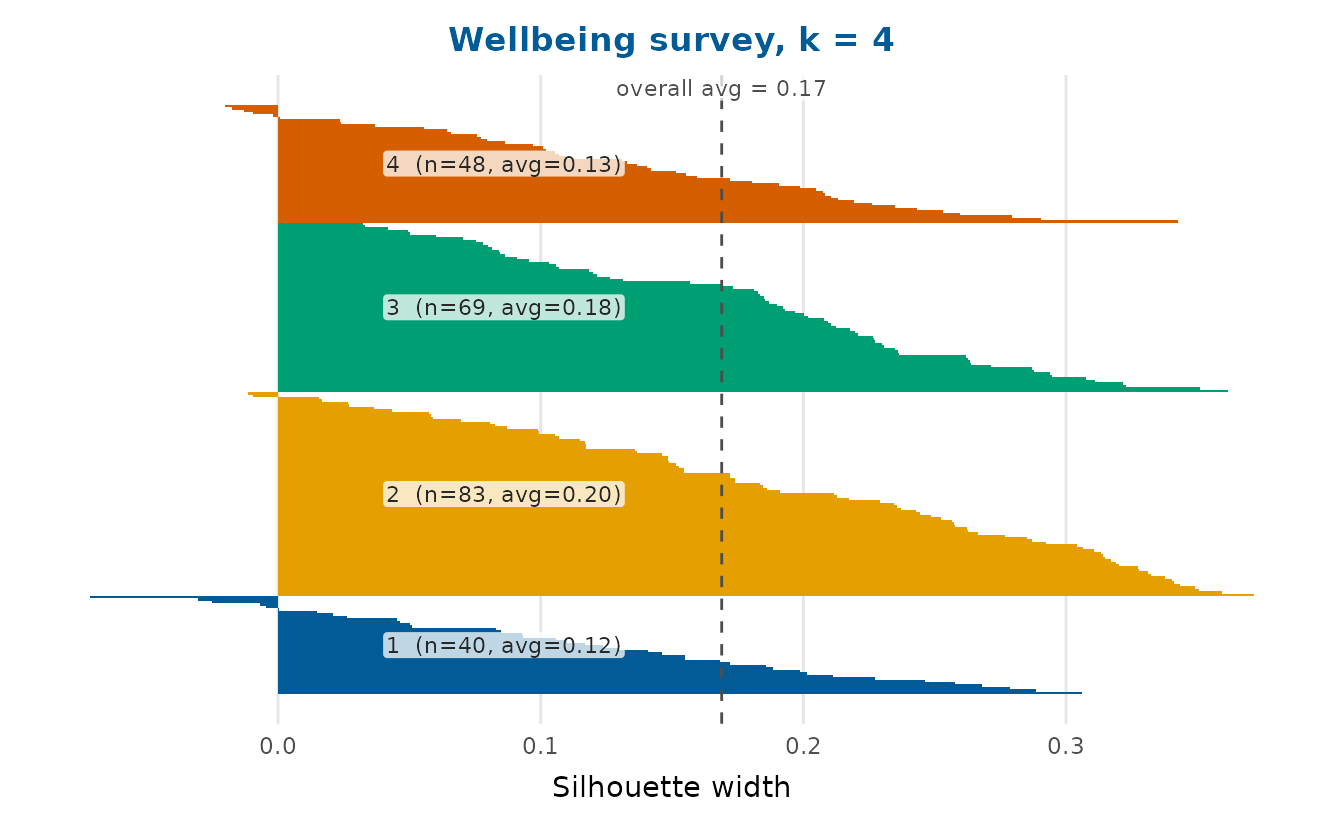
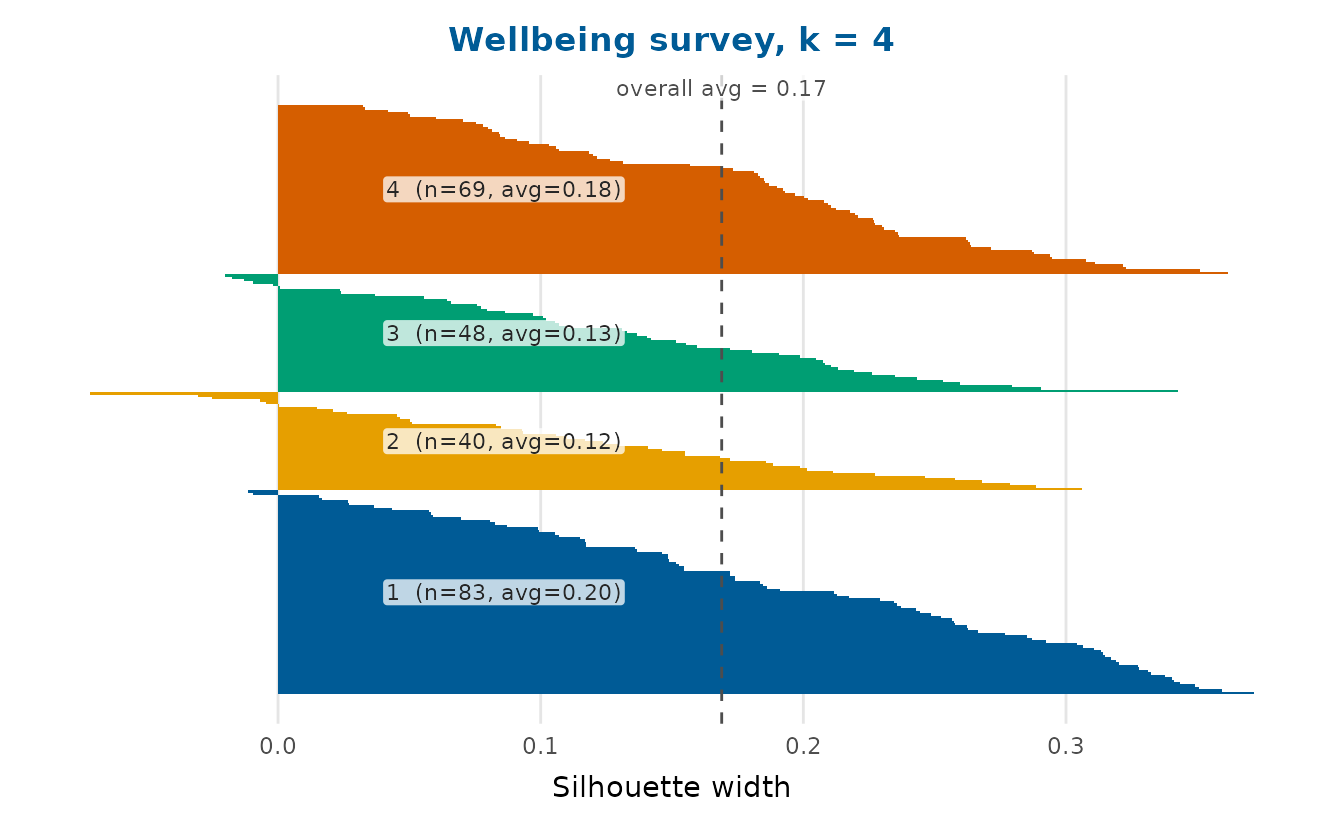
Deploying to gh-pages from @ pablobernabeu/depictr@6c7d5bfcca1dce3d7c01c3fd6941ca9bd43c88b3 🚀

Changed region(s): [[0.0625, 0.4518, 0.9062, 0.8434], [0.1562, 0.1205, 0.9062, 0.4819]]

diff --git a/dev/articles/multivariate-and-survival.html b/dev/articles/multivariate-and-survival.html
@@ -174,11 +174,11 @@ attributes:</p>
 </tr>
 <tr class="even">
 <td align="right">5</td>
-<td align="right">0.230</td>
+<td align="right">0.227</td>
 </tr>
 <tr class="odd">
 <td align="right">6</td>
-<td align="right">0.221</td>
+<td align="right">0.213</td>
 </tr>
 </tbody>
 </table>

diff --git a/dev/news/index.html b/dev/news/index.html
@@ -53,6 +53,9 @@
 <h2 class="pkg-version" data-toc-text="0.1.0.9000" id="depictr-0109000-development-version">depictr 0.1.0.9000 (development version)<a class="anchor" aria-label="anchor" href="#depictr-0109000-development-version"></a></h2>
 <ul><li>
 <code><a href="../reference/survival_plot.html">survival_plot()</a></code>: the log-rank <em>p</em>-value now follows APA style – no leading zero, and reported as <em>p</em> &lt; .001 below that threshold. The colour legend and the number-at-risk table list the groups in the same order, following the group factor’s levels.</li>
+<li>
+<code>cluster_plot(seed = ...)</code> no longer leaves the caller’s random number generator stream perturbed after the call returns; the state is now restored on exit, matching the pattern already used elsewhere in the package (e.g. <code>quantile_residuals()</code>).</li>
+<li>Internal refactor: <code><a href="../reference/raincloud_plot.html">raincloud_plot()</a></code>, <code><a href="../reference/ridgeline_plot.html">ridgeline_plot()</a></code>, <code><a href="../reference/group_comparison_plot.html">group_comparison_plot()</a></code> and <code><a href="../reference/estimation_plot.html">estimation_plot()</a></code> no longer use the <code>&lt;&lt;-</code> superassignment operator to collect sparse-group warnings; no user-facing change.</li>
 </ul></div>
     <div class="section level2">
 <h2 class="pkg-version" data-toc-text="0.1.0" id="depictr-010">depictr 0.1.0<a class="anchor" aria-label="anchor" href="#depictr-010"></a></h2>

diff --git a/dev/news/index.md b/dev/news/index.md
@@ -7,6 +7,18 @@
   reported as *p* \< .001 below that threshold. The colour legend and
   the number-at-risk table list the groups in the same order, following
   the group factor’s levels.
+- `cluster_plot(seed = ...)` no longer leaves the caller’s random number
+  generator stream perturbed after the call returns; the state is now
+  restored on exit, matching the pattern already used elsewhere in the
+  package (e.g. `quantile_residuals()`).
+- Internal refactor:
+  [`raincloud_plot()`](https://pablobernabeu.github.io/depictr/dev/reference/raincloud_plot.md),
+  [`ridgeline_plot()`](https://pablobernabeu.github.io/depictr/dev/reference/ridgeline_plot.md),
+  [`group_comparison_plot()`](https://pablobernabeu.github.io/depictr/dev/reference/group_comparison_plot.md)
+  and
+  [`estimation_plot()`](https://pablobernabeu.github.io/depictr/dev/reference/estimation_plot.md)
+  no longer use the `<<-` superassignment operator to collect
+  sparse-group warnings; no user-facing change.
 
 ## depictr 0.1.0
 

diff --git a/dev/articles/multivariate-and-survival.md b/dev/articles/multivariate-and-survival.md
@@ -104,8 +104,8 @@ knitr::kable(attr(kd, "k_table"), digits = 3)
 |   2 |          0.242 |
 |   3 |          0.240 |
 |   4 |          0.220 |
-|   5 |          0.230 |
-|   6 |          0.221 |
+|   5 |          0.227 |
+|   6 |          0.213 |
 
 [`silhouette_plot()`](https://pablobernabeu.github.io/depictr/dev/reference/silhouette_plot.md)
 then shows the quality of an actual clustering, one bar per observation